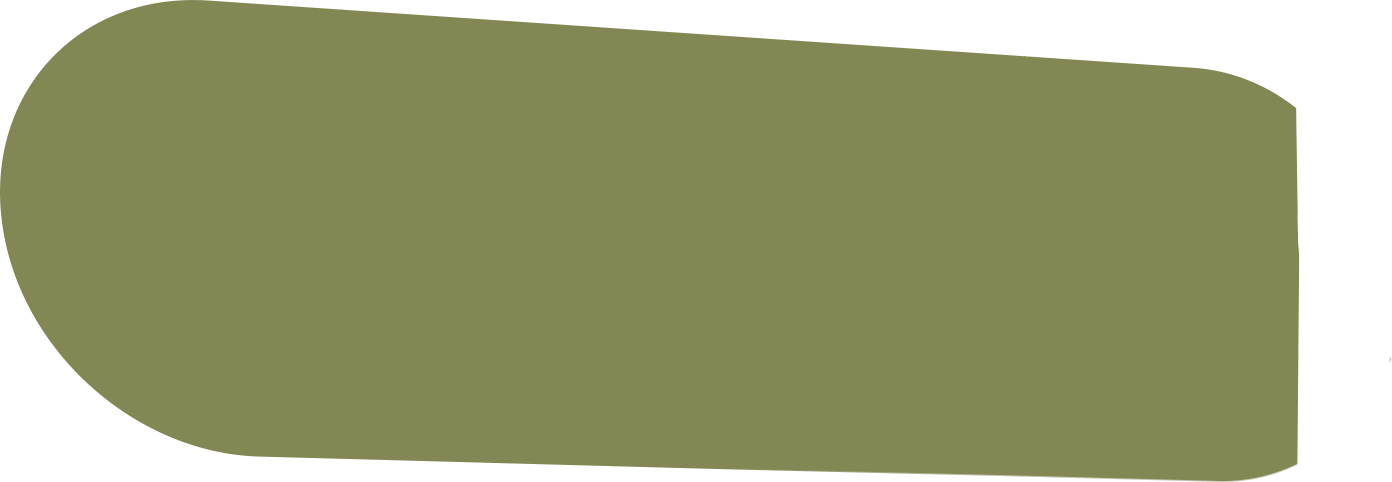
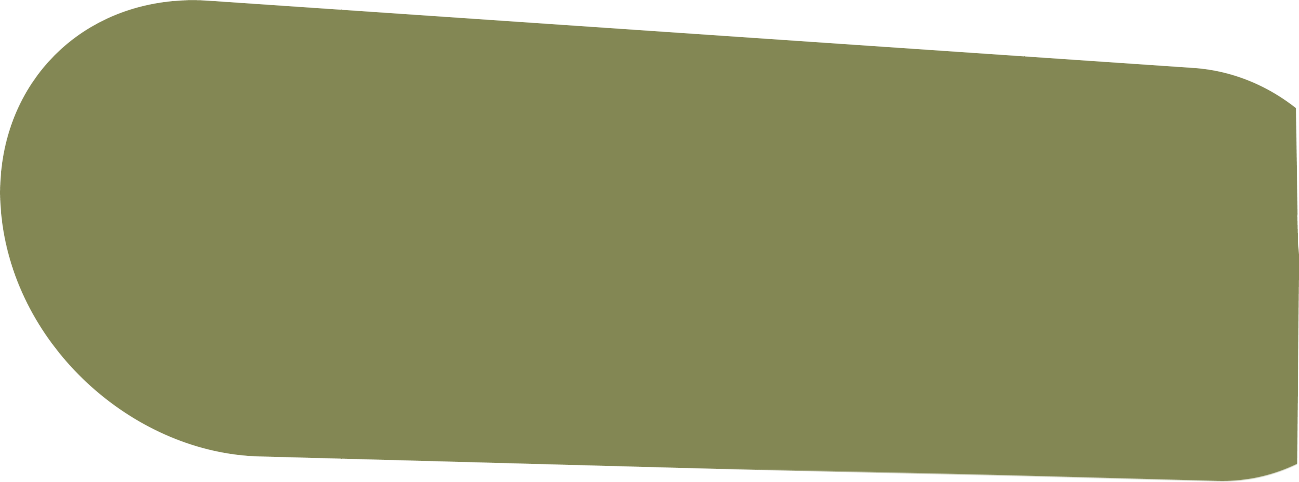
[FIX] previous commit didn't have every files

diff --git a/Bookinist/Assets/_Project/Scripts/UI/Utils/ToggleSwitch.cs b/Bookinist/Assets/_Project/Scripts/UI/Utils/ToggleSwitch.cs
@@ -1,0 +1,140 @@
+using System;
+using System.Collections;
+using UnityEngine;
+using UnityEngine.Events;
+using UnityEngine.EventSystems;
+using UnityEngine.UI;
+
+public class ToggleSwitch : MonoBehaviour, IPointerClickHandler
+{
+    [Header("Slider setup")]
+    [SerializeField, Range(0, 1f)]
+    protected float sliderValue;
+    public bool CurrentValue { get; private set; }
+
+    private bool _previousValue;
+    private Slider _slider;
+
+    [Header("Animation")]
+    [SerializeField, Range(0, 1f)] private float animationDuration = 0.5f;
+    [SerializeField]
+    private AnimationCurve slideEase =
+        AnimationCurve.EaseInOut(0, 0, 1, 1);
+
+    private Coroutine _animateSliderCoroutine;
+
+    [Header("Events")]
+    [SerializeField] private UnityEvent onToggleOn;
+    [SerializeField] private UnityEvent onToggleOff;
+
+    private ToggleSwitchGroupManager _toggleSwitchGroupManager;
+
+    protected Action transitionEffect;
+
+    protected virtual void OnValidate()
+    {
+        SetupToggleComponents();
+
+        _slider.value = sliderValue;
+    }
+
+    private void SetupToggleComponents()
+    {
+        if (_slider != null)
+            return;
+
+        SetupSliderComponent();
+    }
+
+    private void SetupSliderComponent()
+    {
+        _slider = GetComponent<Slider>();
+
+        if (_slider == null)
+        {
+            Debug.Log("No slider found!", this);
+            return;
+        }
+
+        _slider.interactable = false;
+        var sliderColors = _slider.colors;
+        sliderColors.disabledColor = Color.white;
+        _slider.colors = sliderColors;
+        _slider.transition = Selectable.Transition.None;
+    }
+
+    public void SetupForManager(ToggleSwitchGroupManager manager)
+    {
+        _toggleSwitchGroupManager = manager;
+    }
+
+
+    protected virtual void Awake()
+    {
+        SetupSliderComponent();
+    }
+
+    public void OnPointerClick(PointerEventData eventData)
+    {
+        Toggle();
+    }
+
+
+    private void Toggle()
+    {
+        if (_toggleSwitchGroupManager != null)
+            _toggleSwitchGroupManager.ToggleGroup(this);
+        else
+            SetStateAndStartAnimation(!CurrentValue);
+    }
+
+    public void ToggleByGroupManager(bool valueToSetTo)
+    {
+        SetStateAndStartAnimation(valueToSetTo);
+    }
+
+
+    private void SetStateAndStartAnimation(bool state)
+    {
+        _previousValue = CurrentValue;
+        CurrentValue = state;
+
+        if (_previousValue != CurrentValue)
+        {
+            if (CurrentValue)
+                onToggleOn?.Invoke();
+            else
+                onToggleOff?.Invoke();
+        }
+
+        if (_animateSliderCoroutine != null)
+            StopCoroutine(_animateSliderCoroutine);
+
+        _animateSliderCoroutine = StartCoroutine(AnimateSlider());
+    }
+
+
+    private IEnumerator AnimateSlider()
+    {
+        float startValue = _slider.value;
+        float endValue = CurrentValue ? 1 : 0;
+
+        float time = 0;
+        if (animationDuration > 0)
+        {
+            while (time < animationDuration)
+            {
+                time += Time.deltaTime;
+
+                float lerpFactor = slideEase.Evaluate(time / animationDuration);
+                _slider.value = sliderValue = Mathf.Lerp(startValue, endValue, lerpFactor);
+
+                transitionEffect?.Invoke();
+
+                yield return null;
+            }
+        }
+
+        _slider.value = endValue;
+    }
+}